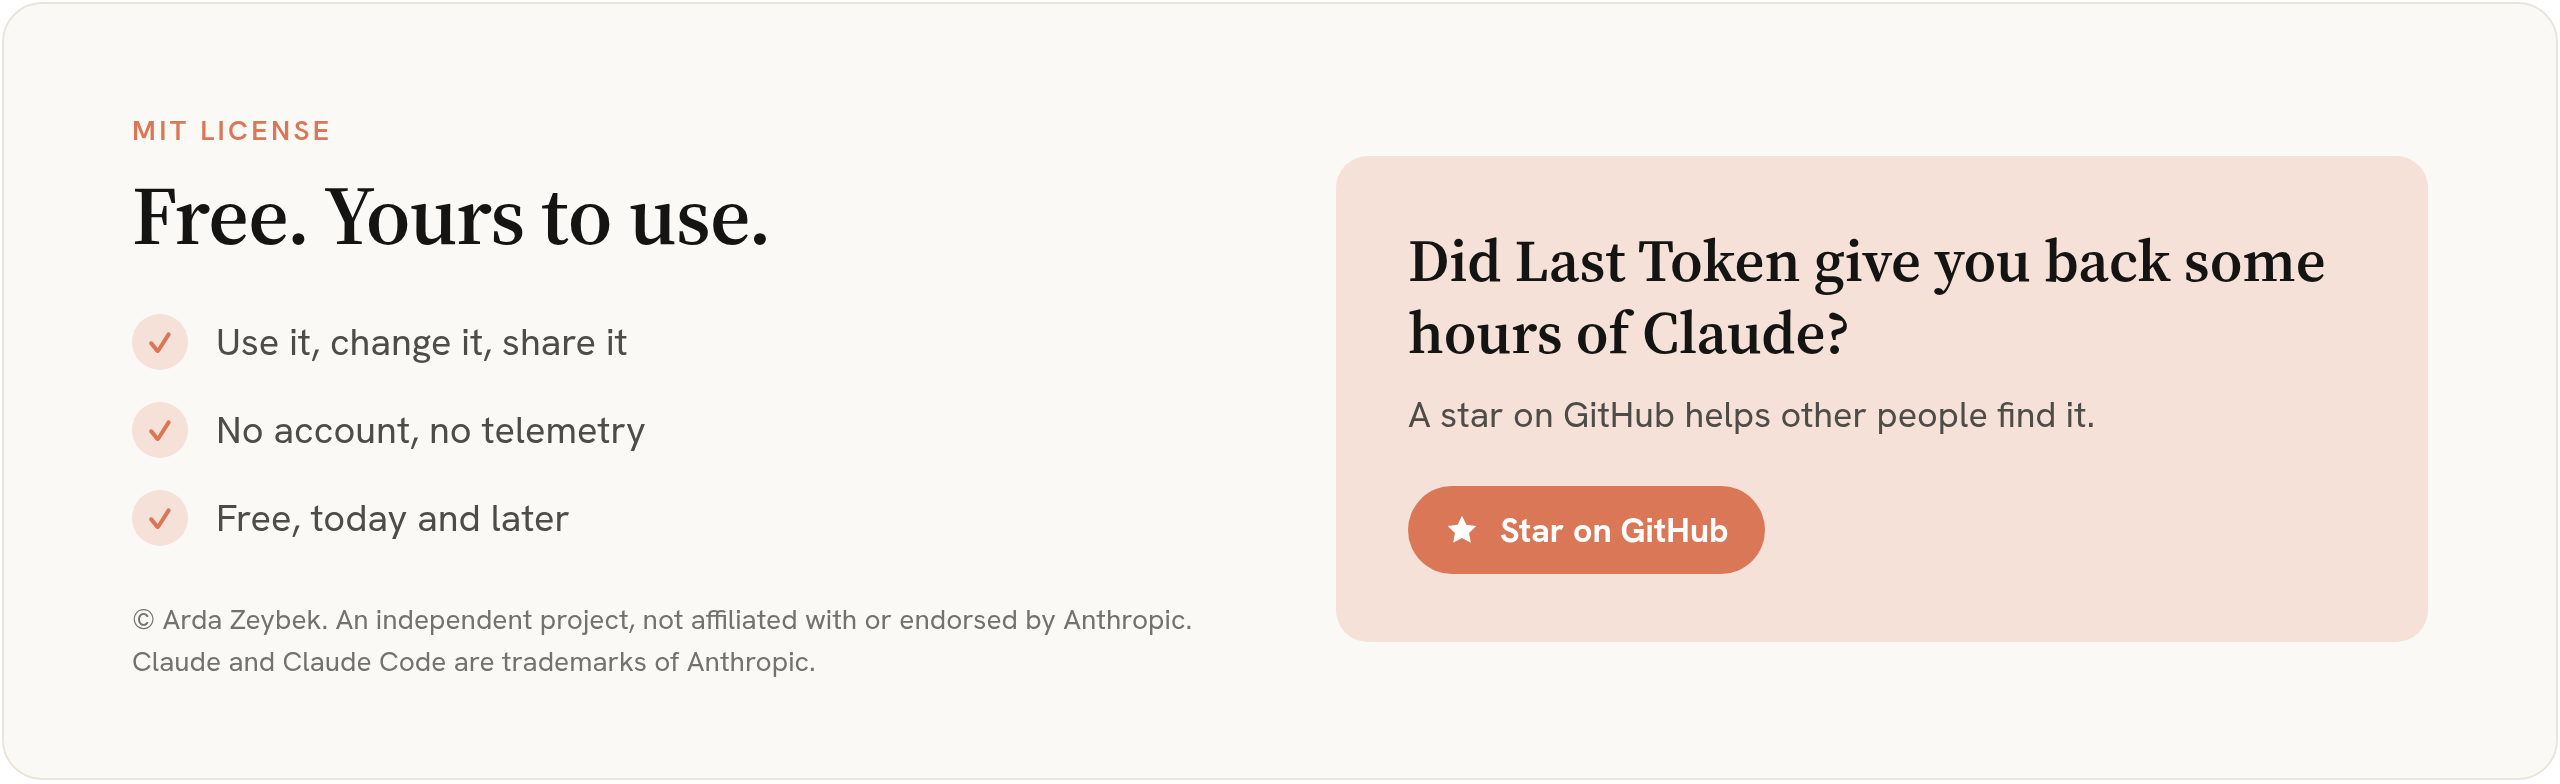
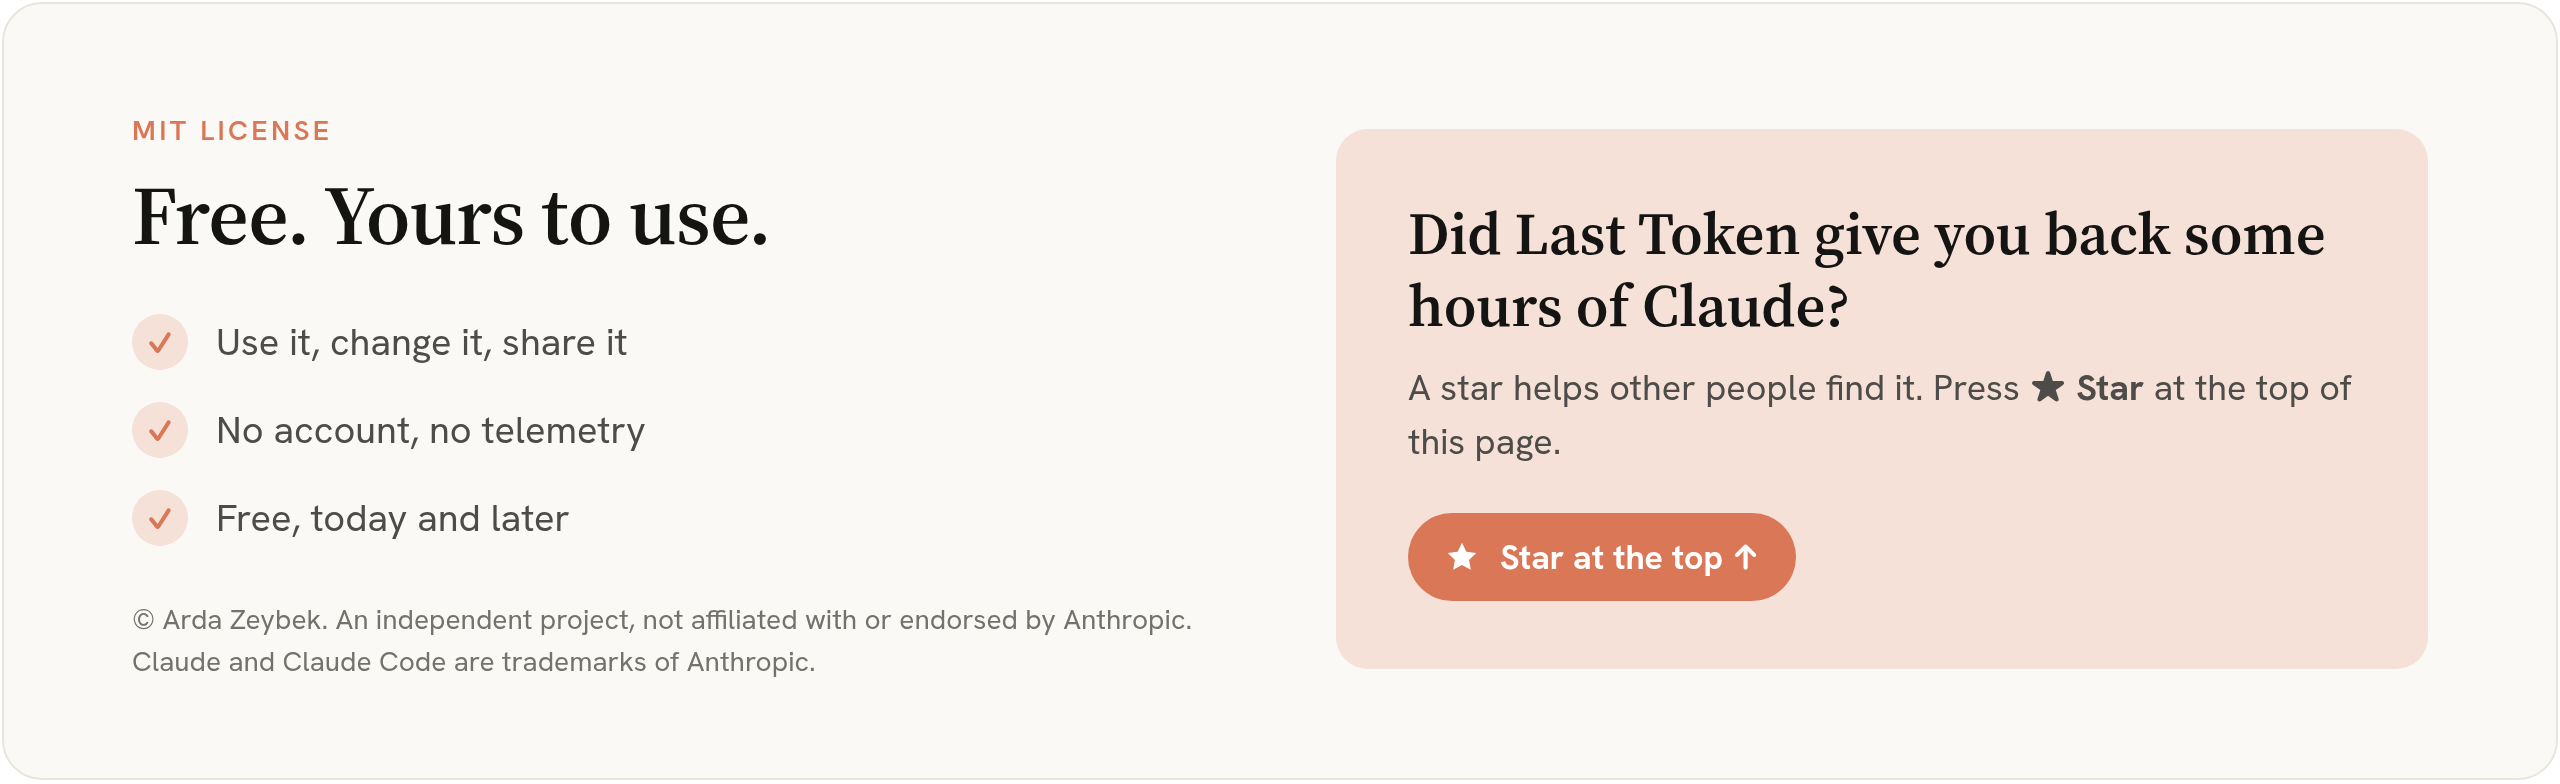
README: support cards are bug / ideas / email, Updates and FAQ as pictures, license links to LICENSE

diff --git a/assets/src/updates.html b/assets/src/updates.html
@@ -1,0 +1,25 @@
+<!doctype html>
+<!-- updates.html — source of assets/updates.png: how Last Token updates itself (start → check → install → repair) -->
+<html><head><meta charset="utf-8"><link rel="stylesheet" href="base.css">
+<style>
+.flow{display:grid;grid-template-columns:repeat(4,1fr);gap:18px;margin-top:34px;position:relative}
+.s{background:#fff;border:1px solid var(--edge);border-radius:14px;padding:22px 22px 24px;position:relative}
+.s:not(:last-child)::after{content:"";position:absolute;right:-16px;top:44px;width:14px;height:2px;background:var(--brand)}
+.ic{width:46px;height:46px;border-radius:50%;background:var(--brand-soft);display:grid;place-items:center}
+.ic svg{width:24px;height:24px;fill:none;stroke:#C4633F;stroke-width:2;stroke-linecap:round;stroke-linejoin:round}
+.s h2{font-family:var(--serif);font-weight:600;font-size:21px;margin-top:16px;line-height:1.2}
+.s p{font-size:16px;color:var(--ink-2);line-height:1.45;margin-top:6px}
+.s.alt{background:transparent;border-style:dashed}
+.off{margin-top:26px;display:flex;gap:12px;align-items:center;font-size:16px;color:var(--ink-3)}
+.off code{font-family:var(--mono);font-size:14px;background:#F0EEE6;border:1px solid var(--edge);border-radius:6px;padding:3px 8px;color:var(--ink)}
+</style></head><body><div class="panel" id="cv">
+<div class="kicker" style="color:var(--brand);letter-spacing:.12em;font-weight:600;font-size:14px">Updates itself</div>
+<h1 style="font-size:40px;margin-top:10px">Always the newest version. You do nothing.</h1>
+<div class="flow">
+ <div class="s"><div class="ic"><svg viewBox="0 0 24 24"><path d="M5 4l14 8-14 8z"/></svg></div><h2>You open Claude Code</h2><p>Start working as usual. Nothing waits.</p></div>
+ <div class="s"><div class="ic"><svg viewBox="0 0 24 24"><circle cx="11" cy="11" r="7"/><path d="M20 20l-4-4"/></svg></div><h2>It checks GitHub</h2><p>Quietly, in the background. At most every 3 hours.</p></div>
+ <div class="s"><div class="ic"><svg viewBox="0 0 24 24"><path d="M12 3v12M7 10l5 5 5-5M4 20h16"/></svg></div><h2>It installs and tests</h2><p>New version in, then a full self-check.</p></div>
+ <div class="s alt"><div class="ic"><svg viewBox="0 0 24 24"><path d="M14.7 6.3a4 4 0 0 0-5.4 5.4L3 18l3 3 6.3-6.3a4 4 0 0 0 5.4-5.4l-2.5 2.5-2.5-2.5z"/></svg></div><h2>Something broke?</h2><p>One background session fixes it for you.</p></div>
+</div>
+<div class="off">Rather not? <code>echo '{"auto": false}' &gt; ~/.claude/last-token/update.json</code></div>
+</div><script src="fit.js"></script></body></html>

diff --git a/assets/src/faq.html b/assets/src/faq.html
@@ -1,0 +1,22 @@
+<!doctype html>
+<!-- faq.html — source of assets/faq.png: the short answers to the common questions -->
+<html><head><meta charset="utf-8"><link rel="stylesheet" href="base.css">
+<style>
+.qs{display:grid;grid-template-columns:1fr 1fr;gap:0 56px;margin-top:22px}
+.q{padding:22px 0;border-top:1px solid var(--rule);display:grid;grid-template-columns:auto 1fr;gap:18px;align-items:start}
+.a{font:700 15px var(--sans);padding:6px 11px;border-radius:999px;background:var(--brand-soft);color:#B35A3C;white-space:nowrap;margin-top:2px;width:66px;text-align:center}
+.a.y{background:#E4EADC;color:#56693F}
+.q h2{font-family:var(--serif);font-weight:600;font-size:22px;line-height:1.25}
+.q p{font-size:17px;color:var(--ink-2);line-height:1.45;margin-top:5px}
+.q code{font-family:var(--mono);font-size:15px}
+</style></head><body><div class="panel" id="cv">
+<h1 style="font-size:40px">Questions people ask</h1>
+<div class="qs">
+ <div class="q"><span class="a">No</span><div><h2>Will Claude get worse?</h2><p>We tested it first. Rules and memory stay as good or better.</p></div></div>
+ <div class="q"><span class="a">No</span><div><h2>Do I need to work differently?</h2><p>Keep chatting. Long chats are where it helps most.</p></div></div>
+ <div class="q"><span class="a y">Both</span><div><h2>Pro or Max?</h2><p>Measured on Pro. The idea is the same on Max.</p></div></div>
+ <div class="q"><span class="a y">All</span><div><h2>Which models?</h2><p>Every Claude model. Each gets its own tuned setting.</p></div></div>
+ <div class="q"><span class="a">No</span><div><h2>Does it send my data?</h2><p>No telemetry. Only the update check talks to GitHub.</p></div></div>
+ <div class="q"><span class="a y">Yes</span><div><h2>Can I turn it off for one project?</h2><p>Add an empty file named <code>.no-last-token</code>.</p></div></div>
+</div>
+</div><script src="fit.js"></script></body></html>

diff --git a/assets/src/license.html b/assets/src/license.html
@@ -15,6 +15,6 @@ small{display:block;margin-top:26px;font-size:14px;color:var(--ink-3);line-heigh
 <div><div class="kicker">MIT license</div><h1 style="font-size:42px;margin-top:12px">Free. Yours to use.</h1>
  <div class="facts"><div class="f"><i>✓</i>Use it, change it, share it</div><div class="f"><i>✓</i>No account, no telemetry</div><div class="f"><i>✓</i>Free, today and later</div></div>
  <small>© Arda Zeybek. An independent project, not affiliated with or endorsed by Anthropic.<br>Claude and Claude Code are trademarks of Anthropic.</small></div>
-<div class="star"><h2>Did Last Token give you back some hours of Claude?</h2><p>A star on GitHub helps other people find it.</p>
- <div class="btn"><svg width="18" height="18" viewBox="0 0 24 24" fill="#fff"><path d="M12 2.5l2.9 6 6.6.9-4.8 4.6 1.2 6.5L12 17.4l-5.9 3.1 1.2-6.5L2.5 9.4l6.6-.9z"/></svg>Star on GitHub</div></div>
+<div class="star"><h2>Did Last Token give you back some hours of Claude?</h2><p>A star helps other people find it. Press <b>★ Star</b> at the top of this page.</p>
+ <div class="btn"><svg width="18" height="18" viewBox="0 0 24 24" fill="#fff"><path d="M12 2.5l2.9 6 6.6.9-4.8 4.6 1.2 6.5L12 17.4l-5.9 3.1 1.2-6.5L2.5 9.4l6.6-.9z"/></svg>Star at the top ↑</div></div>
 </div><script src="fit.js"></script></body></html>

diff --git a/assets/src/support-discussions.html b/assets/src/support-discussions.html
@@ -1,5 +1,5 @@
 <!doctype html>
-<!-- support-discussions.html — source of assets/support-discussions.png: footer support card "Questions" -->
+<!-- support-discussions.html — source of assets/support-discussions.png: footer support card "Ideas and questions" -->
 <html><head><meta charset="utf-8"><link rel="stylesheet" href="base.css"><link rel="stylesheet" href="support.css"></head>
 <body data-w="400"><div class="panel" id="cv"><div class="ic"><svg viewBox="0 0 34 34"><path d='M4 6h18a2 2 0 0 1 2 2v9a2 2 0 0 1-2 2H11l-5 4v-4H4a2 2 0 0 1-2-2V8a2 2 0 0 1 2-2z' fill='#D97757'/><path d='M14 21h10l5 4v-4h1a2 2 0 0 0 2-2v-7a2 2 0 0 0-2-2h-4' fill="none" stroke="#141413" stroke-width="2" stroke-linecap="round" stroke-linejoin="round"/><g fill='#FAF9F5'><circle cx='8' cy='12.5' r='1.6'/><circle cx='13' cy='12.5' r='1.6'/><circle cx='18' cy='12.5' r='1.6'/></g></svg></div>
-<div><h2>Questions</h2><p>GitHub Discussions</p></div></div><script src="fit.js"></script></body></html>
+<div><h2>Ideas and questions</h2><p>GitHub Discussions</p></div></div><script src="fit.js"></script></body></html>

diff --git a/assets/src/support-issues.html b/assets/src/support-issues.html
@@ -1,5 +1,5 @@
 <!doctype html>
-<!-- support-issues.html — source of assets/support-issues.png: footer support card "Bugs and ideas" -->
+<!-- support-issues.html — source of assets/support-issues.png: footer support card "Found a bug?" -->
 <html><head><meta charset="utf-8"><link rel="stylesheet" href="base.css"><link rel="stylesheet" href="support.css"></head>
 <body data-w="400"><div class="panel" id="cv"><div class="ic"><svg viewBox="0 0 34 34"><ellipse cx='17' cy='20' rx='7' ry='9' fill='#D97757'/><circle cx='17' cy='9.5' r='4' fill='#141413'/><g fill="none" stroke="#141413" stroke-width="2" stroke-linecap="round" stroke-linejoin="round"><path d='M10 17H5M24 17h5M10.5 24l-5 3M23.5 24l5 3M14 7l-2-3M20 7l2-3'/></g><path d='M17 12v17' stroke='#B35A3C' stroke-width='1.5'/></svg></div>
-<div><h2>Bugs and ideas</h2><p>GitHub Issues</p></div></div><script src="fit.js"></script></body></html>
+<div><h2>Found a bug?</h2><p>GitHub Issues</p></div></div><script src="fit.js"></script></body></html>

diff --git a/assets/src/support-mail.html b/assets/src/support-mail.html
@@ -1,0 +1,5 @@
+<!doctype html>
+<!-- support-mail.html — source of assets/support-mail.png: footer support card "Anything else" -->
+<html><head><meta charset="utf-8"><link rel="stylesheet" href="base.css"><link rel="stylesheet" href="support.css"></head>
+<body data-w="400"><div class="panel" id="cv"><div class="ic"><svg viewBox="0 0 34 34"><rect x="4" y="8" width="26" height="19" rx="3" fill="#D97757"/><path d="M5 10l12 9 12-9" fill="none" stroke="#FAF9F5" stroke-width="2.4" stroke-linecap="round" stroke-linejoin="round"/></svg></div>
+<div><h2>Anything else</h2><p>Send an email</p></div></div><script src="fit.js"></script></body></html>

diff --git a/README.md b/README.md
@@ -101,12 +101,9 @@ Open a new chat. You'll see **`last-token ✓`** at the bottom. That's it: it no
 
 ### 🔄 Updates itself
 
-Every time Claude Code starts, Last Token checks GitHub in the background (at most every 3 hours,
-it never slows the start). A new version is pulled, installed and checked with `doctor` on its own.
-If anything goes wrong, it opens **one** background Claude Code session that reinstalls the latest
-version cleanly (log: `~/.claude/last-token/update.log`). Turn it off with
-`echo '{"auto": false}' > ~/.claude/last-token/update.json`; update by hand with
-`python3 ~/.claude/last-token/ctx.py self-update`.
+<p align="center"><img src="assets/updates.png" width="100%" alt="Updates itself: you open Claude Code, it checks GitHub quietly in the background at most every 3 hours, installs the new version and runs a full self-check. If something broke, one background session fixes it for you. To turn it off: echo {auto: false} into ~/.claude/last-token/update.json" /></p>
+
+<sub>Log: <code>~/.claude/last-token/update.log</code> · Update by hand: <code>python3 ~/.claude/last-token/ctx.py self-update</code></sub>
 
 <details>
 <summary><b>Rather paste a sentence?</b></summary>
@@ -253,7 +250,12 @@ compaction, while integration tests check the code. Scored on **plan quota**, no
 
 ## ❓ FAQ
 
-**Will Claude get dumber?** No. That was the first thing we tested and the reason several “savings”
+<p align="center"><img src="assets/faq.png" width="100%" alt="Questions people ask. Will Claude get worse? No, rules and memory stay as good or better. Do I need to work differently? No. Pro or Max? Both. Which models? All. Does it send my data? No telemetry, only the update check talks to GitHub. Can I turn it off for one project? Yes, add an empty file named .no-last-token." /></p>
+
+<details>
+<summary><b>The same answers in text, plus one more</b></summary>
+
+**Will Claude get worse?** No. That was the first thing we tested and the reason several “savings”
 were thrown out. Rule-following and recall are equal or better in every shipped round.
 
 **Do I need to change how I work?** No. Keep chatting. You never have to start a new chat
@@ -263,11 +265,14 @@ were thrown out. Rule-following and recall are equal or better in every shipped 
 
 **Which models?** All Claude models in Claude Code. Each one gets its own tuned compaction point.
 
-**Does it send anything anywhere?** No. No network calls at all.
+**Does it send my data anywhere?** No telemetry. The only network call is the update check to GitHub, and you can turn it off.
 
 **Where do my notes live?** `~/.claude/last-token/store/<folder>/.ctx/`: plain Markdown files you can read.
 
 **How do I turn it off for one project?** Create an empty file named `.no-last-token` in it.
+</details>
+
+Another question? [Ask in Discussions](https://github.com/ardazeybek/last-token/discussions).
 
 ---
 
@@ -297,15 +302,17 @@ Internals: [docs/DESIGN.md](docs/DESIGN.md) · [docs/RESEARCH.md](docs/RESEARCH.
 ## 💬 Support
 
 <p align="center">
-  <a href="https://github.com/ardazeybek/last-token/issues"><img src="assets/support-issues.png" width="32%" alt="Bugs and ideas: GitHub Issues" /></a>
-  <a href="https://github.com/ardazeybek/last-token/discussions"><img src="assets/support-discussions.png" width="32%" alt="Questions: GitHub Discussions" /></a>
-  <a href="https://github.com/ardazeybek/last-token/security/advisories/new"><img src="assets/support-security.png" width="32%" alt="Security problems: report privately" /></a>
+  <a href="https://github.com/ardazeybek/last-token/issues/new/choose"><img src="assets/support-issues.png" width="32%" alt="Found a bug? Open a GitHub Issue" /></a>
+  <a href="https://github.com/ardazeybek/last-token/discussions"><img src="assets/support-discussions.png" width="32%" alt="Ideas and questions: GitHub Discussions" /></a>
+  <a href="mailto:quantastudio.dev@gmail.com"><img src="assets/support-mail.png" width="32%" alt="Anything else: send an email" /></a>
 </p>
+
+<p align="center"><sub>Security problem? Please email privately, see <a href="SECURITY.md">SECURITY.md</a>.</sub></p>
 
 ## 📜 License
 
 <p align="center">
-  <a href="https://github.com/ardazeybek/last-token"><img src="assets/license.png" width="100%" alt="MIT license. Free, yours to use: use it, change it, share it. No account, no telemetry. Copyright Arda Zeybek. An independent project, not affiliated with or endorsed by Anthropic. Claude and Claude Code are trademarks of Anthropic. Did Last Token give you back some hours of Claude? A star on GitHub helps other people find it." /></a>
+  <a href="LICENSE"><img src="assets/license.png" width="100%" alt="MIT license. Free, yours to use: use it, change it, share it. No account, no telemetry. Copyright Arda Zeybek. An independent project, not affiliated with or endorsed by Anthropic. Claude and Claude Code are trademarks of Anthropic. Did Last Token give you back some hours of Claude? A star helps other people find it: press Star at the top of this page." /></a>
 </p>
 
-<p align="center"><sub><a href="LICENSE">Read the MIT license</a> · <a href="https://github.com/ardazeybek/last-token">⭐ Star on GitHub</a></sub></p>
+<p align="center"><sub><a href="LICENSE">Read the MIT license</a> · ⭐ <b>Star</b> is the button at the top right of this page</sub></p>

diff --git a/assets/README.md b/assets/README.md
@@ -30,6 +30,8 @@ assets/src/render.sh banner      # one
 Needs a Chromium (Playwright cache or system) and network for Google Fonts. Keep each PNG under 400 KB.
 - real-session.png — real `/lt-savings` output from one long session (src/real-session.html)
 - social.png — GitHub social preview 1280×640 (src/social.html), upload in Settings → Social preview
-- support-*.png — Clipio-style support cards: issues, discussions, security (src/support-*.html + support.css)
+- support-*.png — Clipio-style support cards: issues, discussions, mail (src/support-*.html + support.css)
 - contribute.png — three ways to help, links to CONTRIBUTING.md (src/contribute.html)
 - license.png — MIT, independence note, star request (src/license.html)
+- updates.png — self-update flow (src/updates.html)
+- faq.png — short FAQ answers (src/faq.html)
